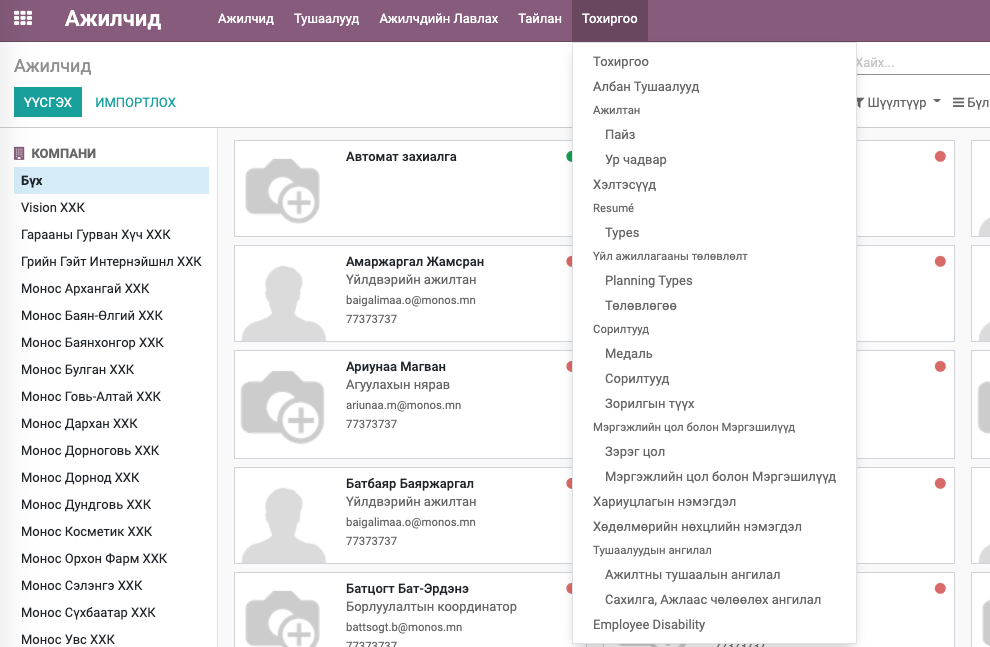
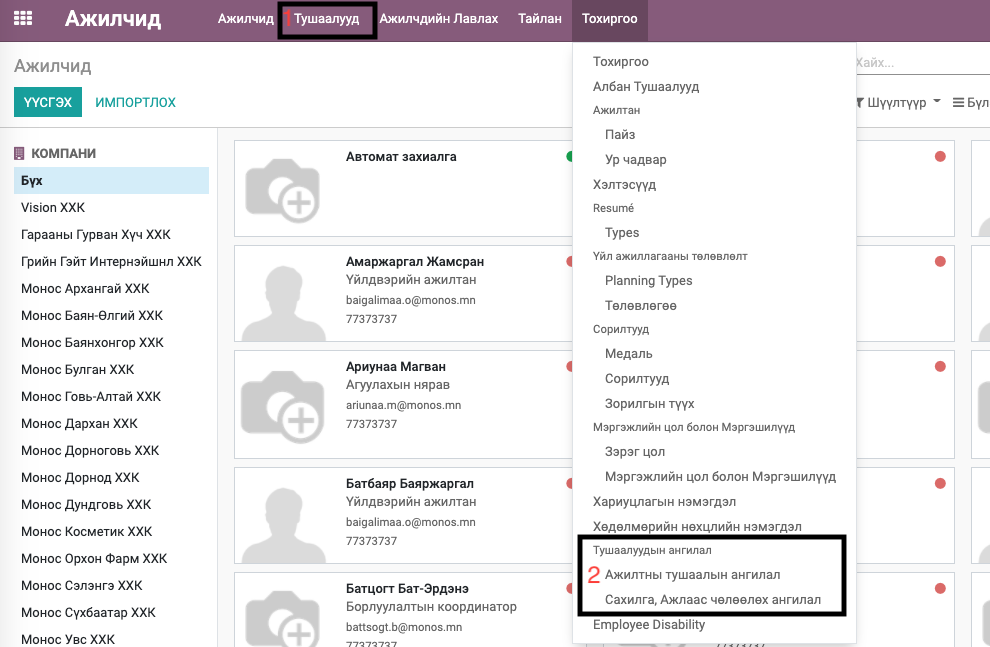
bumanit_hr

Changed region(s): [[0.5758, 0.8037, 0.8788, 0.9583], [0.2727, 0.0, 0.3939, 0.0618]]

diff --git a/source/includes/modules/hr/bumanit_hr.rst b/source/includes/modules/hr/bumanit_hr.rst
@@ -33,18 +33,21 @@ Bumanit HR
 Ажилтны мэдээлэлд дараах бүртгэлүүдийг нэмэв
 
 1. HR Тохиргоонууд хэрэгт - Албан тушаалын зэрэглэл сонгох талбар /Зураг 1/
-2. Ажилтны Хувийн мэдээлэл хэрэгт - Ажилласан жилийн мэдээлэл  /Зураг 2 - 1/
-3. Ажилтны Хувийн мэдээлэл хэрэгт - Ажилтны хөдөлмөрийн чадвар алдалт (Тохиргоо хэсэгт Ажилтны хөдөлмөрийн чадвар алдалтын бүртгэлүүд үүсгэж түүнээс тохирохыг ажилтанд сонгох)  /Зураг 2 - 2/
-4. Хүүхдийн бүртгэл - Ажилтны бүртгэлийн хэсэгт шинэ таб нэмэв  /Зураг 4/
-5. Боловсролын зэрэг, Мэргэжлийн болон мэргэшүүлэх сургалтын бүртгэл (Боловсролын зэрэг, Мэргэжлийн болон мэргэшүүлэх сургалтын ерөнхий бүртгэлийг тохиргоо хэсэгт хийж ажилтанд сонгож бүртгэх /Зураг 3/)  /Зураг 4 - 1, 3/
-6. Мэргэжлийн үйл ажиллагаа эрхлэх зөвшөөрлийн гэрчилгээ, Ажилтны шагналын бүртгэл  /Зураг 4 - 2/
-7. Ажилтны зарим шаардлагагүй мэдээлэл нуух   /Зураг 4 - 4/
 
 .. figure::
     ../../../img/modules/bumanit_hr/frame4.png
 
+2. Ажилтны Хувийн мэдээлэл хэрэгт - Ажилласан жилийн мэдээлэл  /Зураг 2 - 1/
+3. Ажилтны Хувийн мэдээлэл хэрэгт - Ажилтны хөдөлмөрийн чадвар алдалт (Тохиргоо хэсэгт Ажилтны хөдөлмөрийн чадвар алдалтын бүртгэлүүд үүсгэж түүнээс тохирохыг ажилтанд сонгох)  /Зураг 2 - 2/
+
 .. figure::
     ../../../img/modules/bumanit_hr/frame1.png
+    
+4. Хүүхдийн бүртгэл - Ажилтны бүртгэлийн хэсэгт шинэ таб нэмэв /Зураг 4/
+5. Боловсролын зэрэг, Мэргэжлийн болон мэргэшүүлэх сургалтын бүртгэл (Боловсролын зэрэг, Мэргэжлийн болон мэргэшүүлэх сургалтын ерөнхий бүртгэлийг тохиргоо хэсэгт хийж ажилтанд сонгож бүртгэх /Зураг 3/) /Зураг 4 - 1, 3/
+6. Мэргэжлийн үйл ажиллагаа эрхлэх зөвшөөрлийн гэрчилгээ, Ажилтны шагналын бүртгэл /Зураг 4 - 2/
+7. Ажилтны шагналын бүртгэл /Зураг 4 - 4/
+8. Ажилтны зарим шаардлагагүй мэдээлэл нуух
     
 .. figure::
     ../../../img/modules/bumanit_hr/frame2.png
@@ -54,10 +57,34 @@ Bumanit HR
 
 
 
+
+Боловсролын зэрэг, Мэргэжлийн болон мэргэшүүлэх сургалтын бүртгэл
+=================================================================
+
+Боловсролын зэрэг, Мэргэжлийн болон мэргэшүүлэх сургалтын бүртгэл нь цалин дээр нэмэгдэл бодоход нөлөөлдөг тул чухал ач холбогдолтой.
+
+Тохиргоо хэсэгт /Зураг 5 - 1/ цэсүүд нэмэгдэнэ. Боловсролын зэрэг, Мэргэжлийн болон мэргэшүүлэх сургалт нь цалин дээр нэмэгдэх бол Хувь, Тогмол дүнгээр гэсэн сонголтоор нэмэгдлийн тохиргоог бүртгэнэ. Хэрэв цалингийн нэмэгдэл эсвэл үндсэн мэдээлэл нь Грүпп компани дотор хамт ашиглах бол Компани-ыг хоосон орхино. Харин зөвхөн танай компанид ашиглах бол Компани дээр өөрийн компаныг сонгох юм.
+
+.. figure::
+    ../../../img/modules/bumanit_hr/frame9.png
+
+Ажилтны мэдээлэлд тухайн ажилтны Боловсролын зэрэг, Мэргэжлийн болон мэргэшүүлэх сургалтын бүртгэхдээ дараах зүйлсийг анхаарна
+
+1. Боловсролын зэрэг, Мэргэжлийн болон мэргэшүүлэх сургалтын бүртгэл нь цалин дээр тусдаа бодогддог тул тохирох газар бүртгэнэ.
+2. Боловсролын зэрэг, Мэргэжлийн болон мэргэшүүлэх сургалтын бүртгэл дээр Магистер, Доктор гэх мэт нэг бүлэгт олонг бүртгэвэл цалин дээр аль өндөр дүнгээр нэмэгдэх болно.
+3. Мэргэжлийн болон мэргэшүүлэх сургалтын бүртгэл дээрхи эхлэх болон дуусах хугацаа нь цалингийн хугацаанд тохирохгүй үед цалин дээр нэмэгдэл бодогдохгүй тул энэ огноог чухал анхаарч бүртгэх
+
+.. figure::
+    ../../../img/modules/bumanit_hr/frame3.png
+
+
+
 Ажилтны гэрээний мэдээлэл
 =========================
 
-Ажилтны гэрээний мэдээлэлд ажлын нөхцөл болон холбоотой өмнөх гэрээг сонгох боломжуудыг нэмж оруулав
+Ажилтны гэрээний мэдээлэлд 
+Ажлын нөхцөл 
+Холбоотой өмнөх гэрээг сонгох боломжуудыг нэмж оруулав
 
 .. figure::
     ../../../img/modules/bumanit_hr/frame5.png
@@ -67,22 +94,37 @@ Bumanit HR
 Ажилтны тушаал
 =========================
 
-1. Ажилтны тушаалын ангилал болон тушаалны цэсүүд /Зураг 6, 7/
-2. Ажилтны тушаалын ангилалын бүртгэл /Зураг 8/
-3. Ажилтны тушаалын бүртгэл /Зураг 9/
-4. Ажилтны тушаалын хэвлэх (Тушаалтай холбоотой хэрэглэгчид болох холбогдох хууль журмуудын зүйл заалтуудыг гараас авч хэвлэнэ) /Зураг 9/
+Нийт 5 төрлийн ажилтны тушаал болон, Сахилгын шийтгэл, Ажлаас чөлөөхөх тушаал гэсэн 7 төрлийн тушаал бүртгэж хэвлэнэ.
 
-.. figure::
-    ../../../img/modules/bumanit_hr/menu_dictation.png
+1) Ажилтны тушаал 
+    1. Туршилтын хугацаагаар ажилд томилох
+    2. Албан тушаалд томилох
+    3. Үндсэн албан тушаалд томилох
+    4. Албан тушаалд өөрчлөлт оруулах
+    5. Цалинд өөрчлөлт оруулах
+2) Сахилга, ажлаас чөлөөлөх тушаал 
+    1. Ажлаас чөлөөлөх
+    2. Сахилга
+
+Ажилтнууд модульд доорхи Цэсүүд нэмэгдэнэ
+    Ажилтны тушаал, Сахилга, ажлаас чөлөөлөх тушаал /Зураг 6 - 1/
+    
+    Тушаалын ангилал цэсүүд шинээр нэмэгдэнэ /Зураг 6 - 2/
 
 .. figure::
     ../../../img/modules/bumanit_hr/menu_setting.png
 
+Ажилтны тушаалын ангилалын бүртгэл. Тушаал хэвлэхэд Ангилалын нэрийг тушаалын нэрээр авна. /Зураг 7/
+
 .. figure::
     ../../../img/modules/bumanit_hr/frame6.png
 
+Ажилтны тушаалын бүртгэл Тушаалын хэрэгжих огноог Ажилтны гэрээнээс шууд авна. /Зураг 8/
+
 .. figure::
     ../../../img/modules/bumanit_hr/frame7.png
+
+Батлагдсан тушаал хэвлэх (Тушаалтай холбоотой хэрэглэгчид (Батлах, Цалин зөвшөөрөх, Тушаалын хяналт) болон холбогдох хууль журмуудын зүйл заалтуудыг гараас авч хэвлэнэ.) /Зураг 9/
 
 .. figure::
     ../../../img/modules/bumanit_hr/frame8.png
